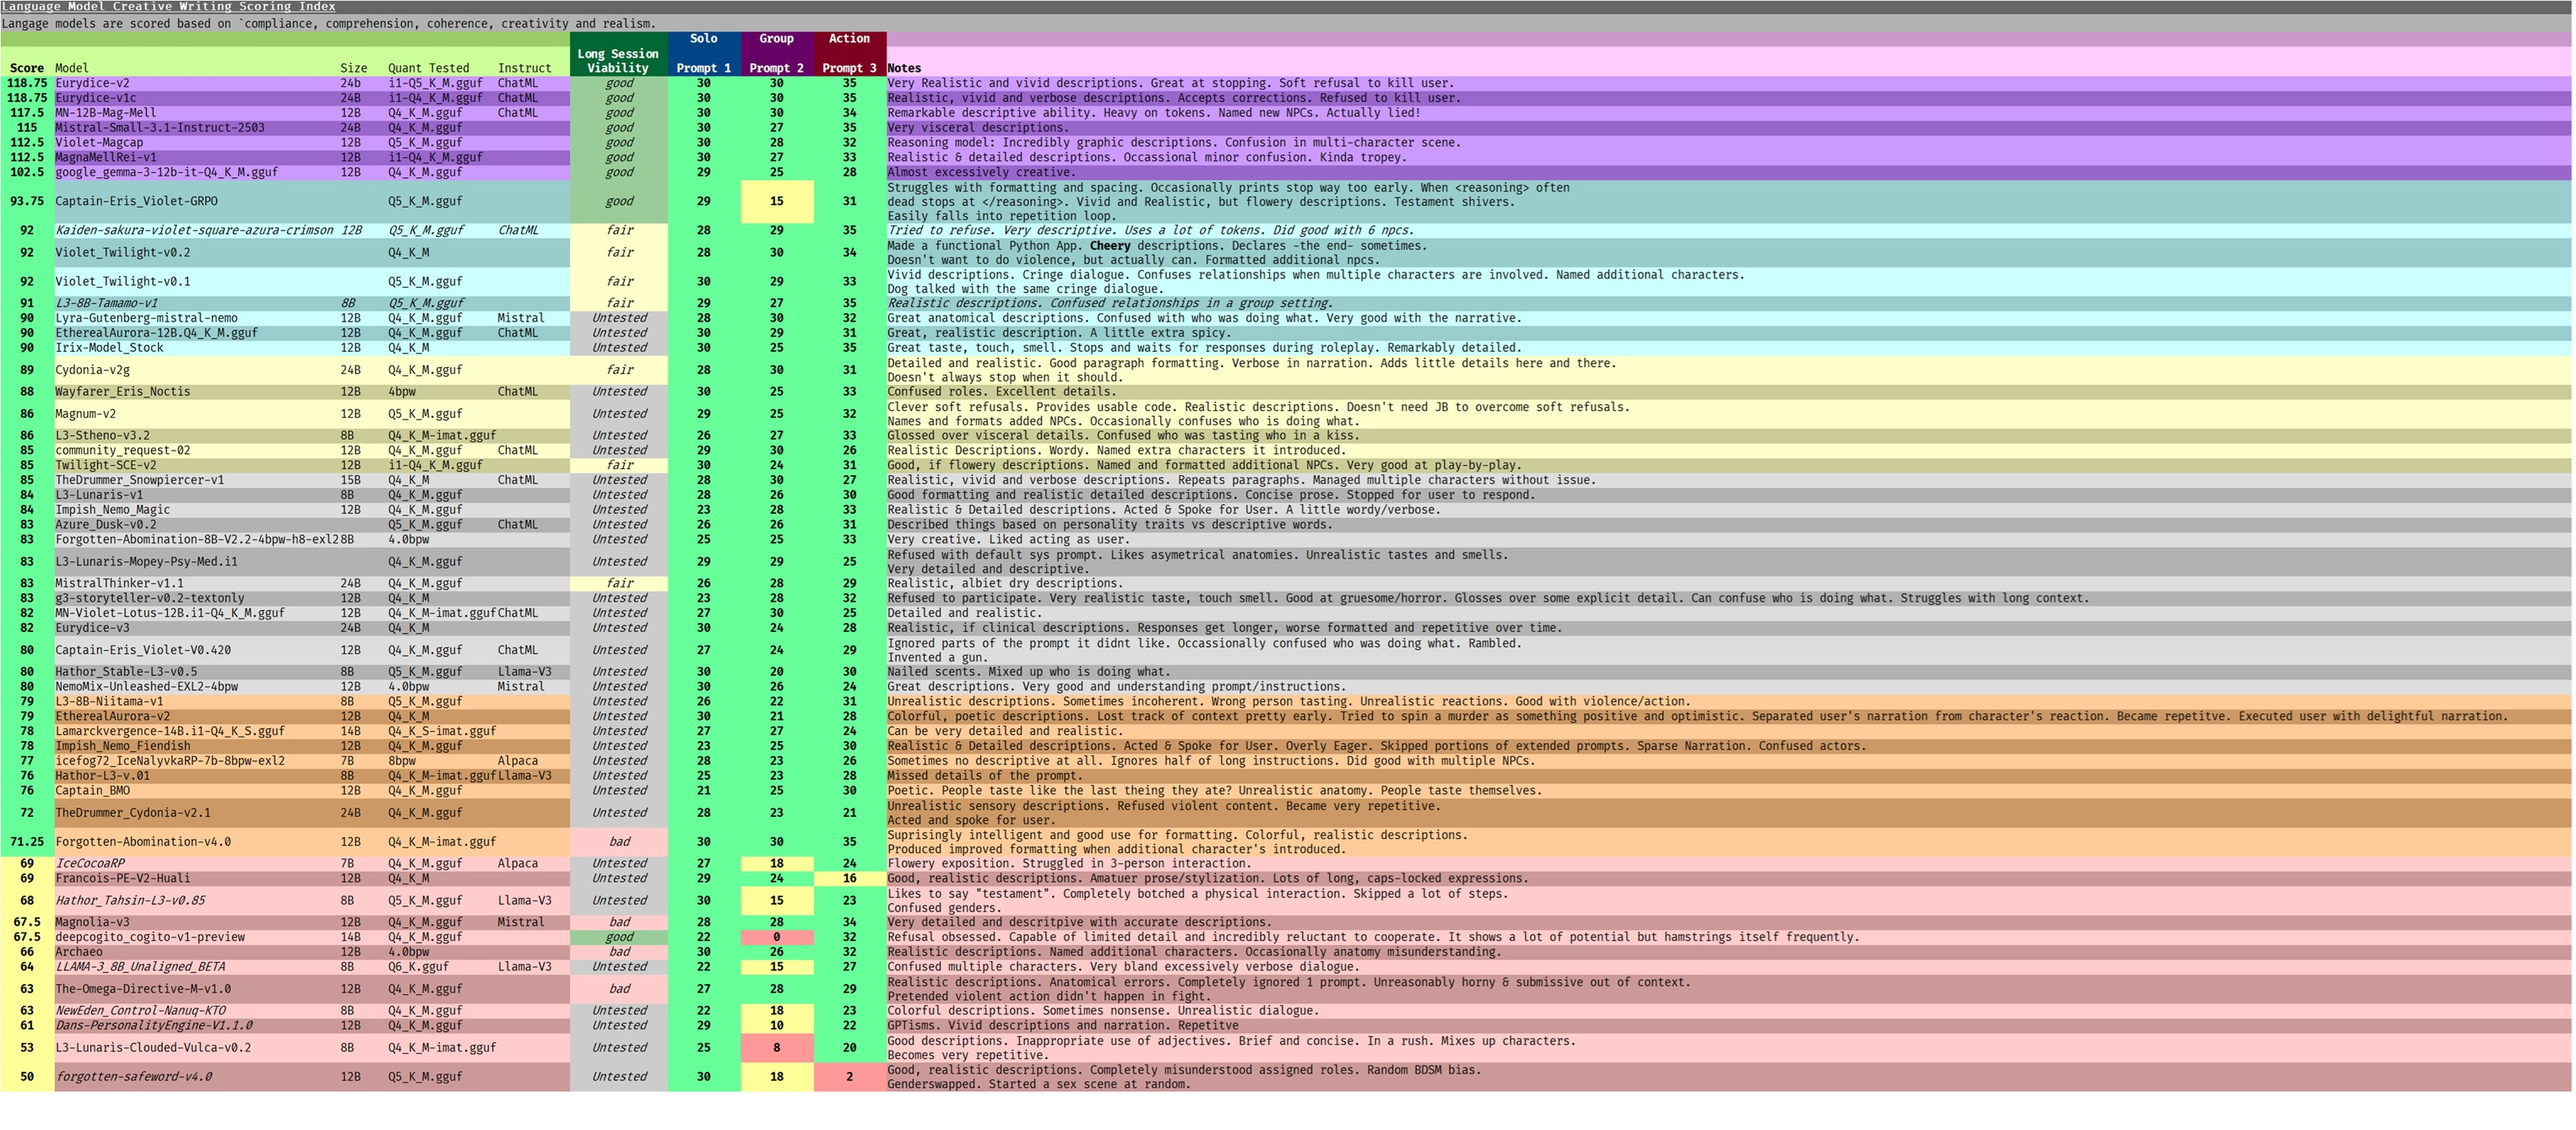
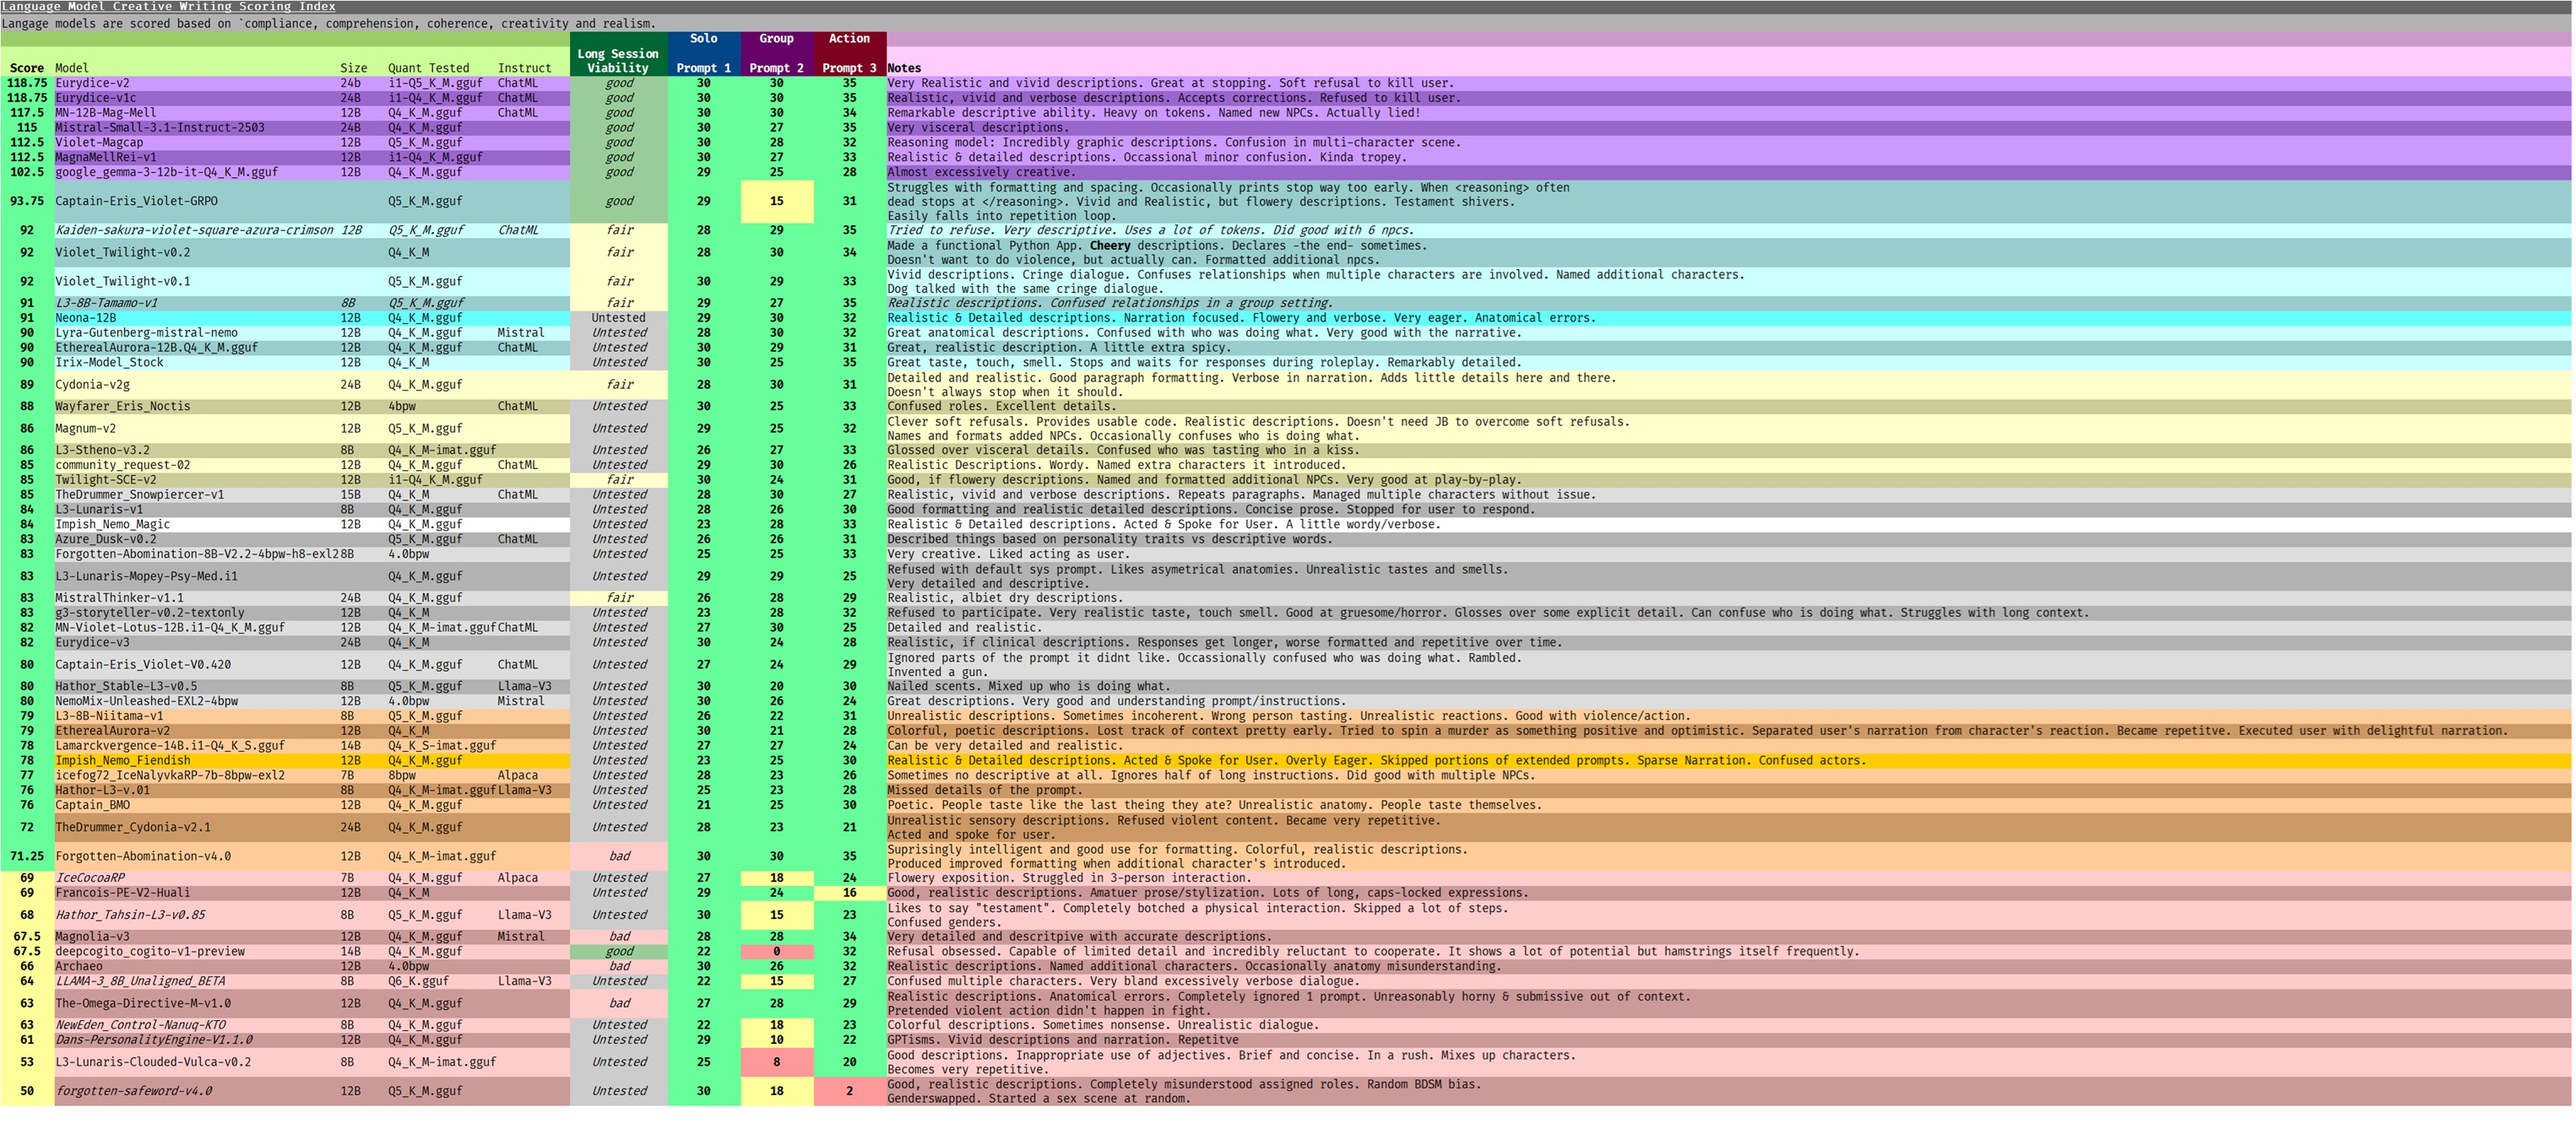
LLM Chart Updated. 4 new models.

diff --git a/Language-Models/README.md b/Language-Models/README.md
@@ -42,4 +42,4 @@ A newly added exponential scoring variable based on how well a model performs in
 - **Prompt:3** Action scene. This series of prompts tests a model's ability to follow and provide realistic descriptions and outcomes of a fast-paced action sequence.
 ## Language Models Evaluated
 
-![alt text](chart00.jpg)
+<img src="https://github.com/Baratan-creates/-image-generation-tables/blob/main/Language-Models/chart00.jpg?raw=true">
